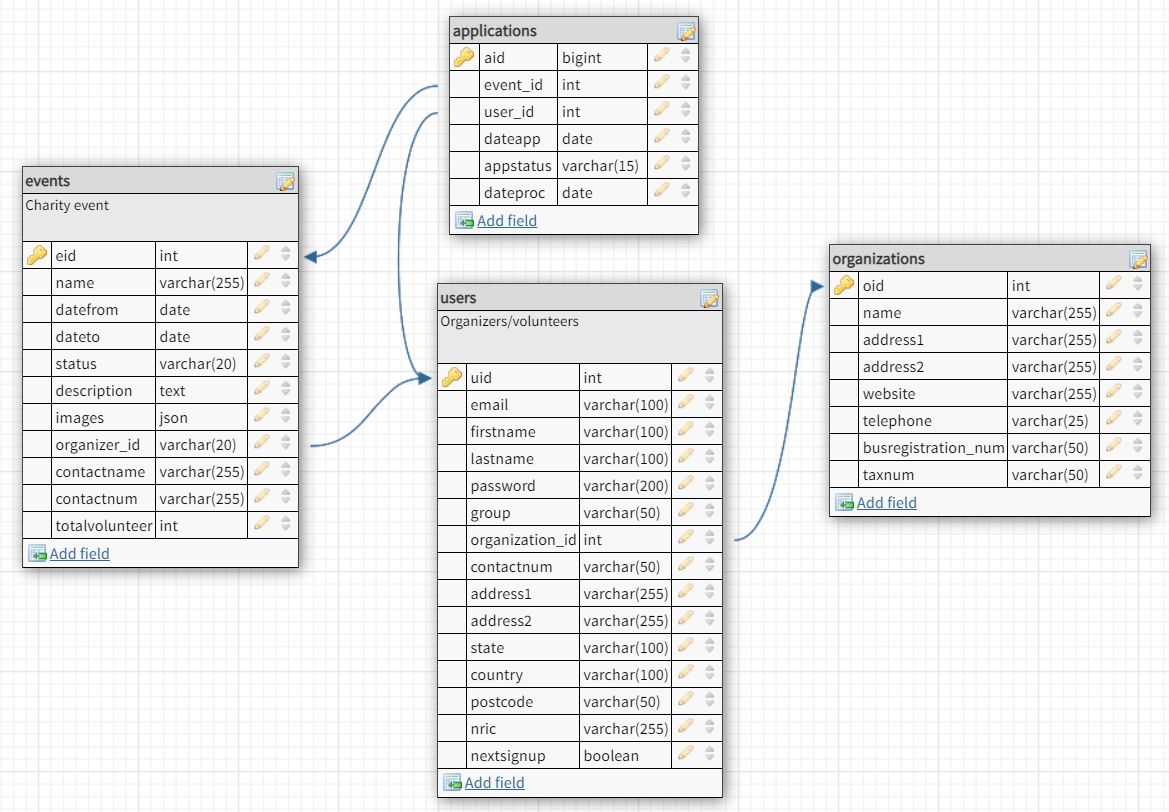
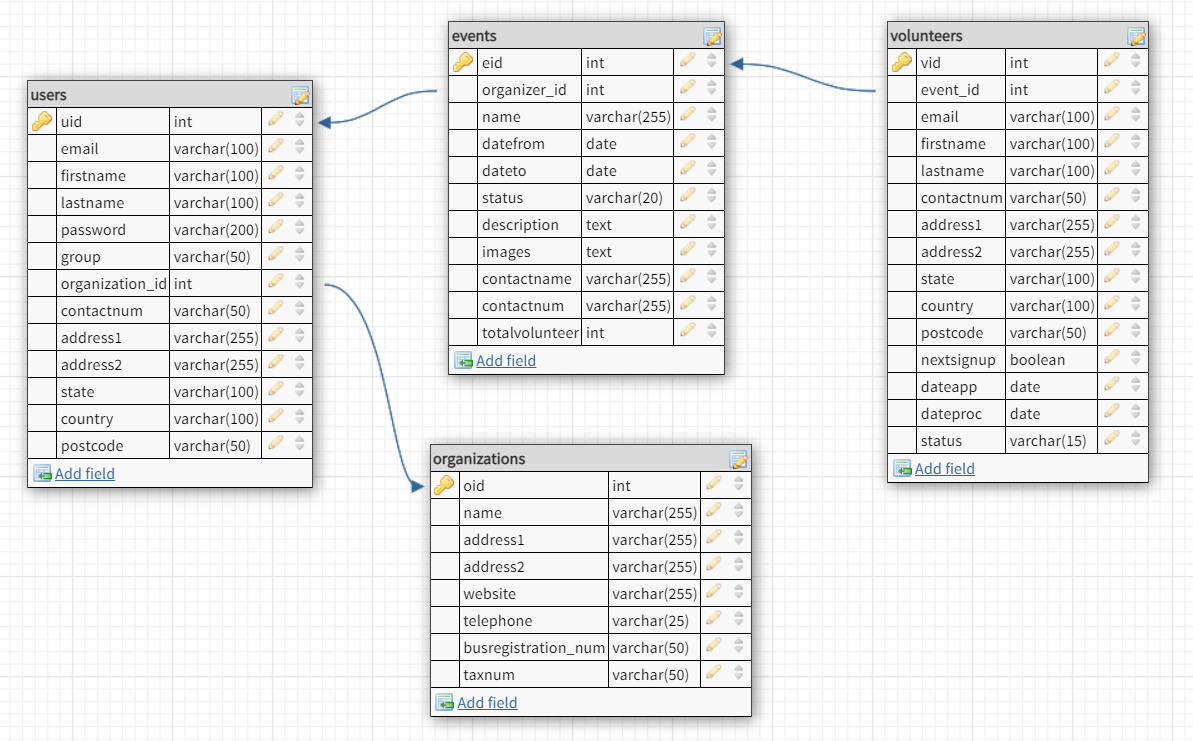
Create event form component & update README

Changed region(s): [[0.308, 0.0, 0.6467, 0.9933], [0.6467, 0.0, 1.0, 0.6829], [0.0, 0.0931, 0.308, 0.7139]]

diff --git a/client/src/components/CreateEventForm.vue b/client/src/components/CreateEventForm.vue
@@ -1,0 +1,243 @@
+<template>
+    <ValidationObserver ref="observer">
+        <v-form ref="form" lazy-validation>
+        <h2>Create Event</h2>
+        <ValidationProvider v-slot="{ errors }" name="Organization Id" rules="required">
+            <v-select
+            v-model="organizationid"
+            :items="items"
+            :error-messages="errors"
+            label="Organization Id"
+            data-vv-name="organizationid"
+            required
+            ></v-select>
+        </ValidationProvider>
+        <ValidationProvider v-slot="{ errors }" name="Title" rules="required|max:25" autocomplete="off">
+            <v-text-field
+            v-model="name"
+            :counter="55"
+            :error-messages="errors"
+            label="Title"
+            placeholder=" "
+            required
+            ></v-text-field>
+        </ValidationProvider>
+        <template>
+            <v-row>
+                <v-col cols="12" sm="6" md="6">
+                    <v-dialog
+                        ref="dialog"
+                        v-model="smodal"
+                        :return-value.sync="sdate"
+                        persistent
+                        width="290px"
+                    >
+                        <template v-slot:activator="{ on, attrs }">
+                            <v-text-field
+                            v-model="sdate"
+                            label="Start Date"
+                            prepend-icon="event"
+                            readonly
+                            v-bind="attrs"
+                            v-on="on"
+                            :rules='requiredRules'
+                            required
+                            ></v-text-field>
+                        </template>
+                        <v-date-picker v-model="sdate" :min="new Date().toISOString().substr(0, 10)" scrollable>
+                            <v-btn text color="info" @click="smodal = false">Cancel</v-btn>
+                            <v-btn text color="info" @click="$refs.dialog.save(sdate)">OK</v-btn>
+                        </v-date-picker>
+                    </v-dialog>
+                </v-col>
+                <v-spacer></v-spacer>
+                <v-col cols="12" sm="6" md="6">
+                <v-dialog
+                    ref="dialog2"
+                    v-model="emodal"
+                    :return-value.sync="edate"
+                    persistent
+                    width="290px"
+                >
+                    <template v-slot:activator="{ on, attrs }">
+                    <v-text-field
+                        v-model="edate"
+                        label="End Date"
+                        prepend-icon="event"
+                        readonly
+                        v-bind="attrs"
+                        v-on="on"
+                        :rules='requiredRules'
+                        required
+                    ></v-text-field>
+                    </template>
+                    <v-date-picker v-model="edate" :min="new Date().toISOString().substr(0, 10)" scrollable>
+                    <v-spacer></v-spacer>
+                        <v-btn text color="info" @click="emodal = false">Cancel</v-btn>
+                        <v-btn text color="info" @click="$refs.dialog2.save(edate)">OK</v-btn>
+                    </v-date-picker>
+                </v-dialog>
+                </v-col>
+            </v-row>   
+        </template>
+        <ValidationProvider v-slot="{ errors }" name="Description" rules="required|max:255" autocomplete="off">
+            <v-textarea
+            v-model="description"
+            :counter="255"
+            :error-messages="errors"
+            label="Description"
+            placeholder=" "
+            auto-grow
+            rows="1"
+            required
+            ></v-textarea>
+        </ValidationProvider>
+        <ValidationProvider v-slot="{ errors }" name="contactperson" rules="required|55" autocomplete="off">
+            <v-text-field
+            v-model="contactperson"
+            :counter="55"
+            :error-messages="errors"
+            label="Contact Person"
+            placeholder=" "
+            required
+            ></v-text-field>
+        </ValidationProvider>
+        <template>    
+            <v-container>
+            <v-row>
+                <v-col cols="12">
+                    <vue-tel-input-vuetify
+                    v-model="phone"
+                    type="text"
+                    :preferred-countries="['my', 'in', 'es', 'gb', 'us']"
+                    :valid-characters-only="true"
+                    @input="onInput"
+                    />
+                </v-col>
+                </v-row>
+                <v-row>
+                    <v-col cols="12">
+                        <div v-if="phone.number" style="color: #e83e8c">
+                        <span>
+                            Number:
+                            <strong>{{ phone.number }}</strong
+                            >,&nbsp;
+                        </span>
+                        <span>
+                            Is valid:
+                            <strong>{{ phone.valid }}</strong
+                            >,&nbsp;
+                        </span>
+                        <span>
+                            Country:
+                            <strong>{{ phone.country }}</strong>
+                        </span>
+                        </div>
+                    </v-col>
+                </v-row>
+            </v-container>
+        </template>
+            <v-text-field
+            v-model="email"
+            :error-messages="errors"
+            label="E-mail (optional)"
+            placeholder=" "
+            ></v-text-field>
+        </ValidationProvider>
+        <ValidationProvider v-slot="{ errors }" name="totalvolunteersneeded" rules="required" autocomplete="off">
+            <v-text-field
+            v-model="totalvolunteersneeded"
+            :error-messages="errors"
+            label="Total Volunteers Needed"
+            placeholder=" "
+            required
+            ></v-text-field>
+        </ValidationProvider>
+        <ValidationProvider v-slot="{ errors }" rules="required" name="checkbox">
+            <v-checkbox
+            v-model="checkbox"
+            :error-messages="errors"
+            value="1"
+            label="Option"
+            type="checkbox"
+            required
+            ></v-checkbox>
+        </ValidationProvider>
+
+        <v-btn class="mr-4" @click="submit">submit</v-btn>
+        <v-btn @click="clear">clear</v-btn>
+        </v-form>
+    </ValidationObserver>
+</template>
+
+<script>
+import { required, email, max } from 'vee-validate/dist/rules'
+import { extend, ValidationObserver, ValidationProvider, setInteractionMode } from 'vee-validate'
+
+setInteractionMode('eager')
+
+extend('required', {
+...required,
+message: '{_field_} can not be empty',
+})
+
+extend('max', {
+...max,
+message: '{_field_} may not be greater than {length} characters',
+})
+
+extend('email', {
+...email,
+message: 'Email must be valid',
+})
+
+export default {
+    name: "CreateEventForm",
+    components: {
+        ValidationProvider,
+        ValidationObserver,
+    },
+    data: () => ({
+        organizationid: '',
+        name: '',
+        email: '',
+        select: null,
+        items: [
+            '1',
+            '2',
+            '3',
+            '4',
+        ],
+        checkbox: null,
+        edate: null,
+        sdate: null,
+        smodal: false,
+        emodal: false,
+        description: '',
+        contactperson: '',
+        totalvolunteersneeded: '',
+        requiredRules: [v => !!v || "Date is required"],
+        phone: {
+            number: null,
+            valid: false,
+            country: 'my',
+        },
+    }),
+
+    methods: {
+        submit () {
+            this.$refs.observer.validate()
+            this.$refs.form.validate()
+        },
+        clear () {
+            this.$refs.observer.reset()
+            this.$refs.form.reset()
+        },
+        onInput(formattedNumber, { number, valid, country }) {
+            this.phone.number = number.international;
+            this.phone.valid = valid;
+            this.phone.country = country && country.name;
+        },
+    },
+};
+</script>

diff --git a/client/src/main.js b/client/src/main.js
@@ -1,14 +1,17 @@
 import Vue from 'vue'
 import App from './App.vue'
-import Vuetify from "vuetify"
+// import vuetify from "vuetify"
 import "vuetify/dist/vuetify.min.css"
+import VueTelInputVuetify from "vue-tel-input-vuetify";
 import vuetify from './plugins/vuetify'
 import VueRouter from 'vue-router'
 import Home from './components/Home.vue'
 import Events from './components/Events.vue'
 import Member from './components/Member.vue'
 
-Vue.use(Vuetify);
+Vue.use(VueTelInputVuetify, {
+  vuetify,
+});
 Vue.use(VueRouter);
 
 Vue.config.productionTip = false

diff --git a/client/src/App.vue b/client/src/App.vue
@@ -15,9 +15,9 @@
       />
 
     <v-spacer></v-spacer>
-      <v-btn flat to="/" exact>Home</v-btn>
-      <v-btn flat to="/events">Events</v-btn>
-      <v-btn flat to="/member">Member</v-btn>
+      <v-btn text to="/" exact>Home</v-btn>
+      <v-btn text to="/events">Events</v-btn>
+      <v-btn text to="/member">Member</v-btn>
     </v-app-bar>
 
     <v-main>

diff --git a/client/src/components/Member.vue b/client/src/components/Member.vue
@@ -2,12 +2,16 @@
     <v-container>
         <div class="member">
             <h1>Member</h1>
+            <create-event-form />
         </div>
     </v-container>
 </template>
 
 <script>
+import CreateEventForm from './CreateEventForm';
+
 export default {
+    components: { CreateEventForm },
     name: "member",
 
     data: () => ({

diff --git a/client/src/plugins/vuetify.js b/client/src/plugins/vuetify.js
@@ -1,5 +1,6 @@
 import Vue from 'vue';
-import Vuetify from 'vuetify/lib/framework';
+import Vuetify from "vuetify";
+import 'vuetify/dist/vuetify.min.css';
 
 Vue.use(Vuetify);
 

diff --git a/client/vue.config.js b/client/vue.config.js
@@ -8,6 +8,7 @@ module.exports = {
     }
   },
   "transpileDependencies": [
-    "vuetify"
+    "vuetify",
+    "vue-tel-input-vuetify"
   ]
 }

diff --git a/README.md b/README.md
@@ -39,13 +39,18 @@ Built with Vue.Js, Node.Js/ Express.Js, MySQL, Firebase, OAuth API, Paypal/ Stri
 
 URI | HTTP Method | Description
 --- | ----------- | -----------
-/api/users/:group | GET | Get all organizers or volunteers
 /api/users/:email | GET | Get user by email
 /api/events | GET | Get all events
-/api/applicants | GET | Get all applicants
+/api/events:id | GET | Get an event by id
+/api/events | POST | Add an event
+/api/events:id | DELETE | Delete an event by id
+/api/events:id | PUT | Update an event by id
 /api/organizations | GET | Get all organizations
-/api/applicants | POST | Insert application
-/api/applicants | PUT | Insert application
+/api/organizations:id | GET | Get an organization by id
+/api/volunteers/:id | GET | Get all volunteers by event
+/api/volunteers/:id/application-status/:status | GET | Get all volunteers by event id and application status
+/api/volunteers | POST | Add an application to volunteers for an event
+/api/volunteers/:id | PUT | Update application
 
 ## User Flow Diagram
 
